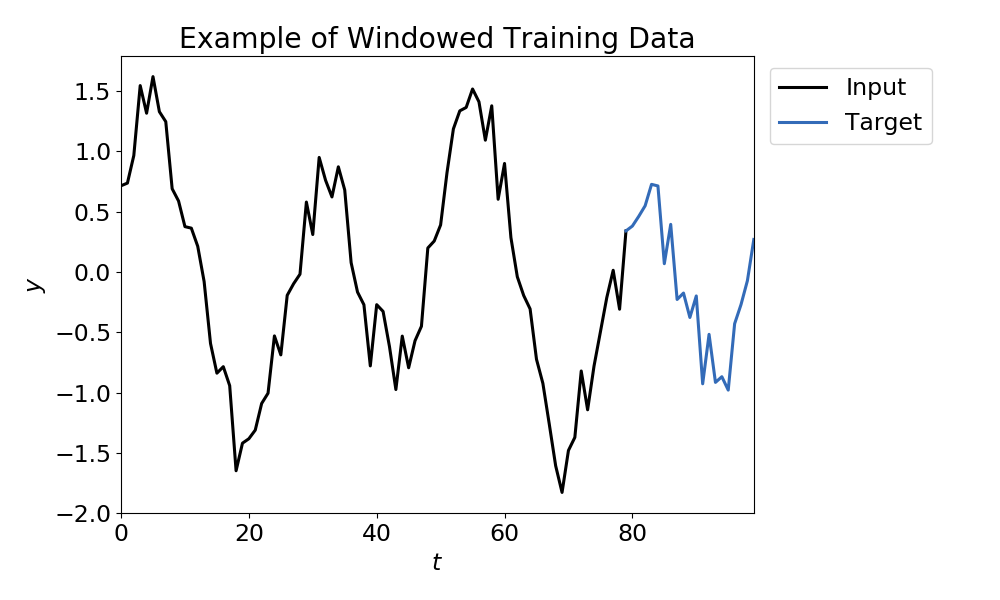
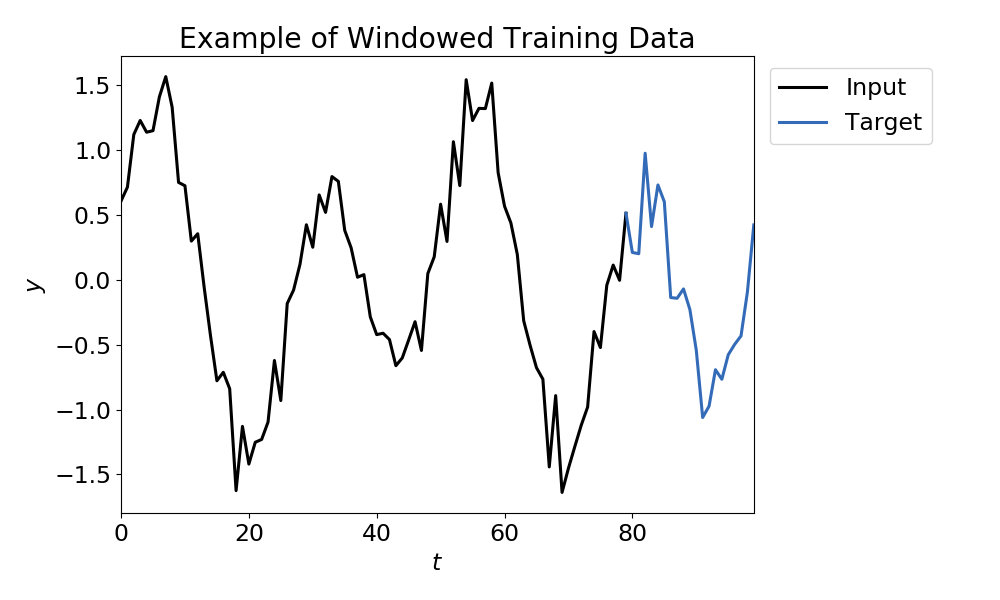
update fig

diff --git a/code/example.py b/code/example.py
@@ -79,7 +79,7 @@ X_train, Y_train, X_test, Y_test = generate_dataset.numpy_to_torch(Xtrain, Ytrai
 
 # specify model parameters and train
 model = lstm_encoder_decoder.lstm_seq2seq(input_size = X_train.shape[2], hidden_size = 15)
-loss, loss_tf, loss_no_tf = model.train_model(X_train, Y_train, n_epochs = 50, target_len = ow, batch_size = 5, teacher_forcing_ratio = 1., learning_rate = 0.01, dynamic_tf = False)
+loss, loss_tf, loss_no_tf = model.train_model(X_train, Y_train, n_epochs = 50, target_len = ow, batch_size = 5, teacher_forcing_ratio = 0.5, learning_rate = 0.01, dynamic_tf = False)
 
 # plot predictions on train/test data
 plotting.plot_train_test_results(model, Xtrain, Ytrain, Xtest, Ytest)

diff --git a/code/plotting.py b/code/plotting.py
@@ -62,7 +62,9 @@ def plot_train_test_results(lstm_model, Xtrain, Ytrain, Xtest, Ytest, num_rows =
         ax[ii, 1].legend(bbox_to_anchor=(1, 1))
         ax[ii, 1].set_title('Test')
 
-  plt.tight_layout() 
+  plt.suptitle('LSTM Encoder-Decoder Predictions', x = 0.445, y = 1.)
+  plt.tight_layout()
+  plt.subplots_adjust(top = 0.95)
   plt.savefig('plots/predictions.png')
   plt.close() 
       

diff --git a/README.md b/README.md
@@ -98,4 +98,4 @@ We plot a few examples of our model for the train and test data.
   <img src="code/plots/predictions.png" width="700">
   </p>
 
-
+We see that for both the train and test sets, the LSTM encoder-decoder is able to learn the 
